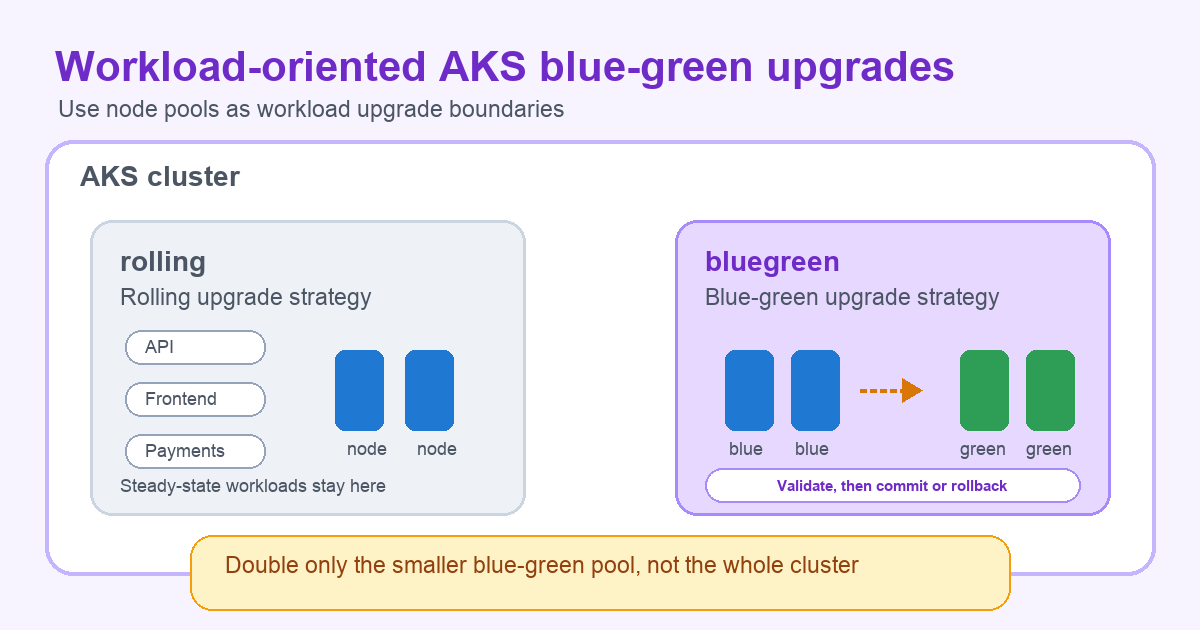
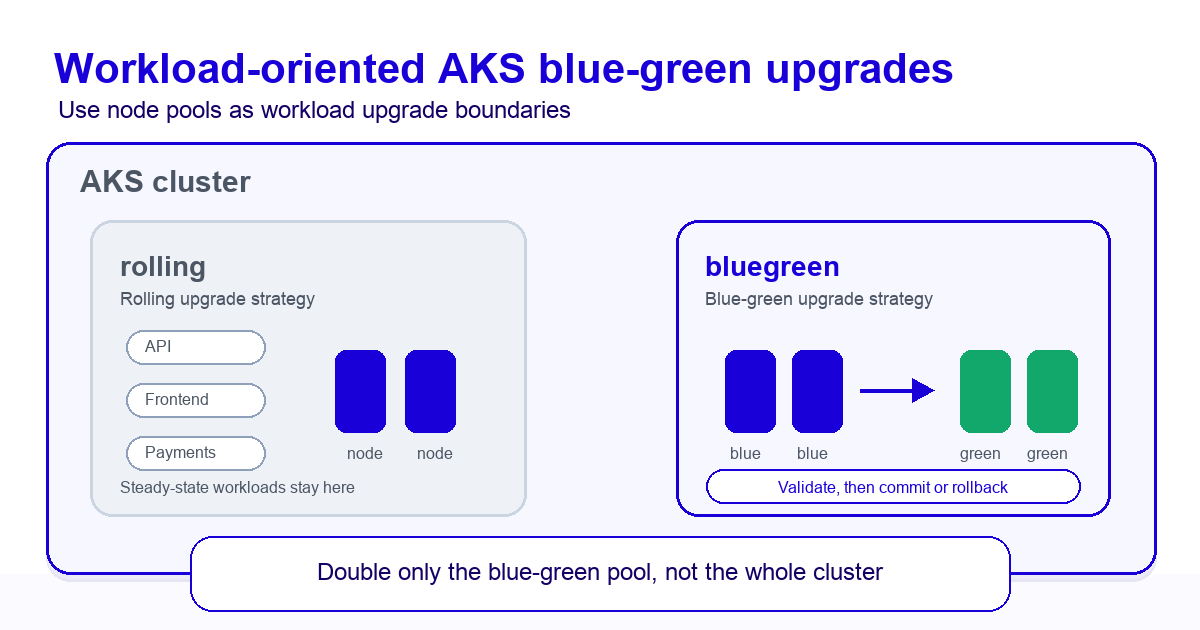
Address blue-green blog review feedback
Update the walkthrough for valid blue-green node pool commands, workload isolation, version setup, and readiness validation. Refresh the hero image wording and palette.

diff --git a/website/blog/2026-09-11-blue-green-node-pool-upgrades-workload-aware/index.md b/website/blog/2026-09-11-blue-green-node-pool-upgrades-workload-aware/index.md
@@ -1,5 +1,5 @@
 ---
-title: "A Workload-Oriented Pattern for AKS Blue-Green Node Pool Upgrades"
+title: "Workload-Aware AKS Blue-Green Node Pool Upgrades"
 description: "Learn how to make AKS blue-green node pool upgrades workload-aware by isolating apps on dedicated pools, reducing capacity needs, and validating safely."
 date: 2026-09-11
 authors: [steve-griffith]
@@ -14,7 +14,7 @@ That raises an important design question: if the feature operates at the node-po
 
 <!-- truncate -->
 
-![Diagram showing a stable node pool using rolling upgrades next to a smaller validation node pool using blue-green upgrades](./hero-image.png)
+![Diagram showing a stable node pool using rolling upgrades next to an isolated validation node pool using blue-green upgrades](./hero-image.png)
 
 ## The problem with whole-cluster blue-green thinking
 
@@ -41,14 +41,14 @@ For example, imagine a cluster with two user node pools:
 
 The pool names reflect the upgrade strategy, not workload importance. `rolling` uses standard rolling upgrades. `bluegreen` uses blue-green upgrades for workloads that benefit from explicit validation before the old nodes are removed.
 
-This pattern changes the capacity and cost conversation. Instead of doubling the entire cluster, you double the smaller pool that hosts validation-focused workloads.
+This pattern changes the capacity and cost conversation. Instead of doubling the entire cluster, you only double the isolated blue-green pool that hosts validation-focused workloads.
 
 ## Example configuration
 
 This example creates a cluster shape that makes the upgrade boundary visible:
 
 1. A rolling pool that uses the default rolling upgrade strategy.
-2. A smaller blue-green pool configured for blue-green upgrades.
+2. An isolated blue-green pool configured for blue-green upgrades.
 3. A steady-state workload pinned to the rolling pool.
 4. A validation-focused workload pinned to the blue-green pool.
 5. A blue-green upgrade started only on the blue-green pool.
@@ -59,10 +59,19 @@ This example creates a cluster shape that makes the upgrade boundary visible:
 
 Start with an AKS cluster and add two user pools. The rolling pool uses the default rolling strategy. The blue-green pool uses blue-green and a short soak configuration for illustration.
 
+An AKS node pool can't be upgraded beyond the Kubernetes version of the control plane. To keep this walkthrough focused on node pool behavior, create the cluster control plane on version N and create both workload node pools on version N-1. If you later swap the node image upgrade command for a Kubernetes version upgrade, the blue-green pool can move up to the already-upgraded control plane version without adding a separate control-plane-only upgrade step.
+
+Blue-green node pool upgrades require Azure CLI 2.64.0 or later, the latest `aks-preview` extension, and the `2025-08-02-preview` AKS API version.
+
 ```bash
+az version --query '"azure-cli"'
+az extension add --name aks-preview --upgrade
+
 RESOURCE_GROUP=rg-bluegreen-upgrades
 CLUSTER_NAME=aks-bluegreen-upgrades
 LOCATION=eastus
+K8S_VERSION_CLUSTER=1.35.7
+K8S_VERSION_NODEPOOL=1.34.10
 
 az group create \
   --name $RESOURCE_GROUP \
@@ -72,6 +81,7 @@ az aks create \
   --resource-group $RESOURCE_GROUP \
   --name $CLUSTER_NAME \
   --location $LOCATION \
+  --kubernetes-version $K8S_VERSION_CLUSTER \
   --node-count 1 \
   --generate-ssh-keys
 
@@ -80,6 +90,7 @@ az aks nodepool add \
   --cluster-name $CLUSTER_NAME \
   --name rolling \
   --node-count 2 \
+  --kubernetes-version $K8S_VERSION_NODEPOOL \
   --labels workload-tier=rolling
 
 az aks nodepool add \
@@ -87,11 +98,17 @@ az aks nodepool add \
   --cluster-name $CLUSTER_NAME \
   --name bluegreen \
   --node-count 2 \
+  --kubernetes-version $K8S_VERSION_NODEPOOL \
   --labels workload-tier=bluegreen \
+  --taints workload-tier=bluegreen:NoSchedule \
   --upgrade-strategy bluegreen \
   --drain-batch-size 50% \
   --batch-soak-duration 5 \
   --final-soak-duration 60
+
+az aks get-credentials \
+  --resource-group $RESOURCE_GROUP \
+  --name $CLUSTER_NAME
 ```
 
 For production, choose soak durations based on the time your monitoring, smoke tests, and users need to detect meaningful regressions.
@@ -122,6 +139,13 @@ spec:
         image: mcr.microsoft.com/azuredocs/aks-helloworld:v1
         ports:
         - containerPort: 80
+        resources:
+          requests:
+            cpu: "250m"
+            memory: "256Mi"
+          limits:
+            cpu: "500m"
+            memory: "512Mi"
 ```
 
 The validation-focused workload targets the blue-green pool.
@@ -143,14 +167,26 @@ spec:
     spec:
       nodeSelector:
         workload-tier: bluegreen
+      tolerations:
+      - key: "workload-tier"
+        operator: "Equal"
+        value: "bluegreen"
+        effect: "NoSchedule"
       containers:
       - name: app
         image: mcr.microsoft.com/azuredocs/aks-helloworld:v1
         ports:
         - containerPort: 80
+        resources:
+          requests:
+            cpu: "250m"
+            memory: "256Mi"
+          limits:
+            cpu: "500m"
+            memory: "512Mi"
 ```
 
-For stronger isolation, add taints to the blue-green pool and tolerations to only the workloads that should run there.
+The `nodeSelector` places this workload on the blue-green pool. The matching taint and toleration make the boundary stronger by preventing unrelated workloads without that toleration from scheduling there.
 
 Confirm placement before starting the upgrade.
 
@@ -163,15 +199,14 @@ At this point, the steady-state service should be running on `rolling`, while th
 
 ## Upgrade only the blue-green pool
 
-Now start a node image or Kubernetes version upgrade on the blue-green pool. The rolling pool does not need to participate.
+Now start a node image upgrade on the blue-green pool. The rolling pool does not need to participate.
 
 ```bash
 az aks nodepool upgrade \
   --resource-group $RESOURCE_GROUP \
   --cluster-name $CLUSTER_NAME \
   --name bluegreen \
-  --node-image-only \
-  --upgrade-strategy bluegreen
+  --node-image-only
 ```
 
 During the upgrade, AKS cordons the blue nodes, adds green nodes with the updated configuration, and drains pods from blue to green in batches. Because only `bluegreen` uses blue-green, the temporary capacity increase applies to that pool.
@@ -193,7 +228,10 @@ This is where the workload-focused story becomes visible. AKS does not infer app
 Blue-green upgrades are most useful when you do something with the soak window. Use that time to run validation against the workloads that moved to green nodes:
 
 ```bash
-kubectl rollout status deployment/recommendations-worker
+kubectl wait \
+  --for=condition=Ready pod \
+  -l app=recommendations-worker \
+  --timeout=5m
 kubectl get pods -l app=recommendations-worker -o wide
 kubectl logs deployment/recommendations-worker --tail=50
 ```
